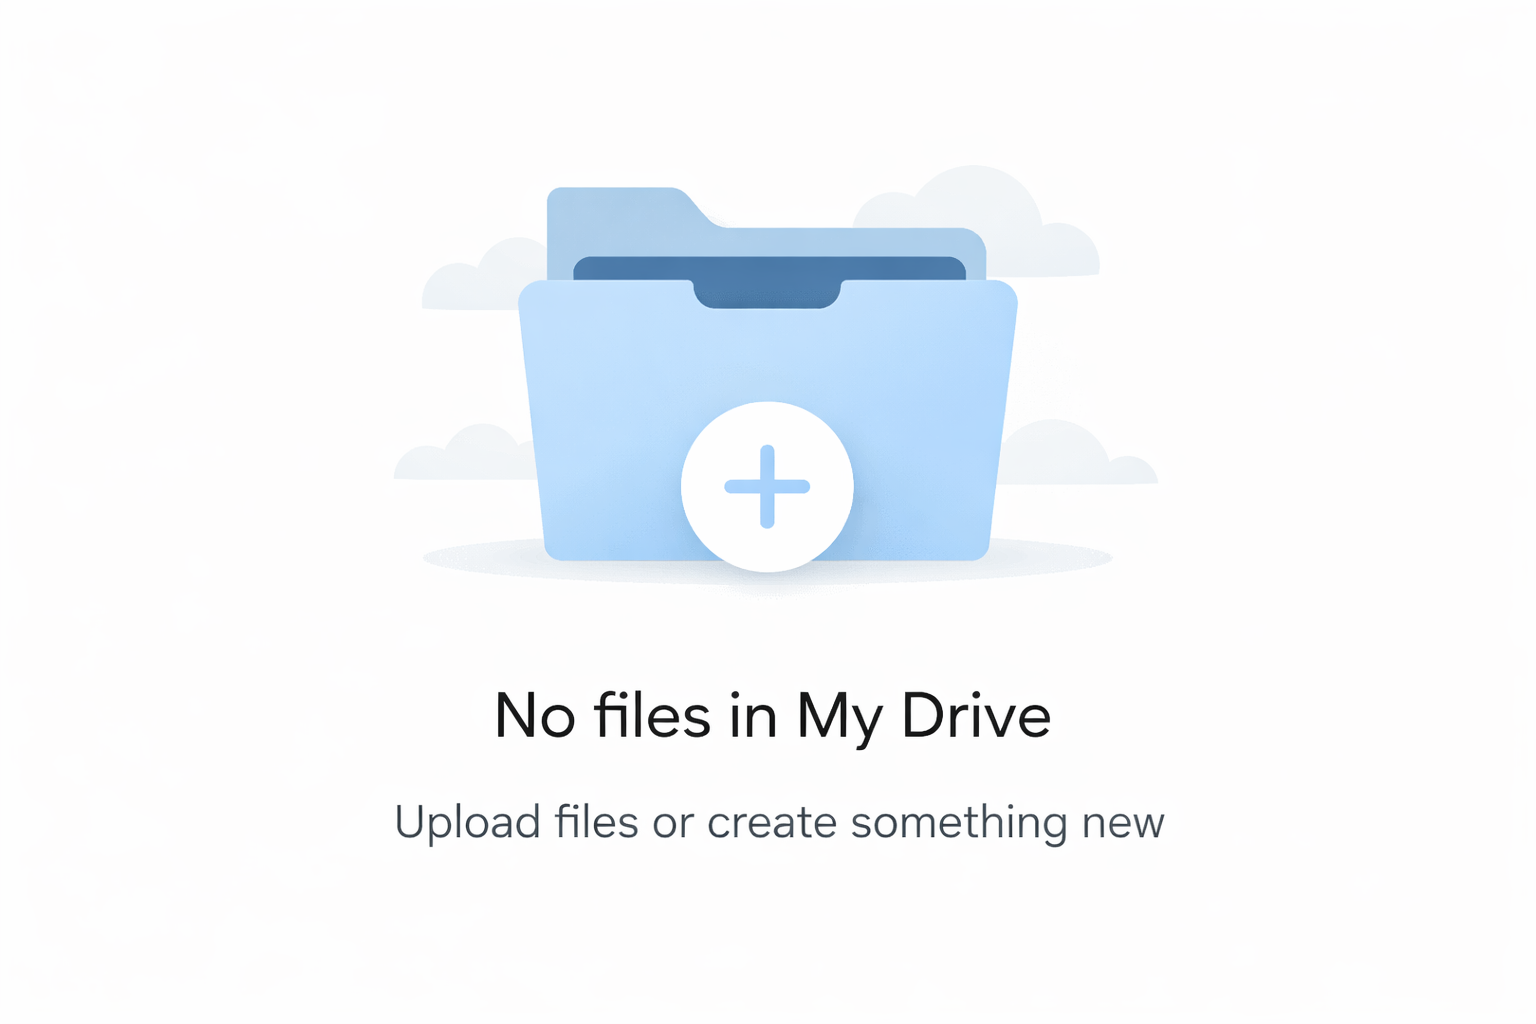
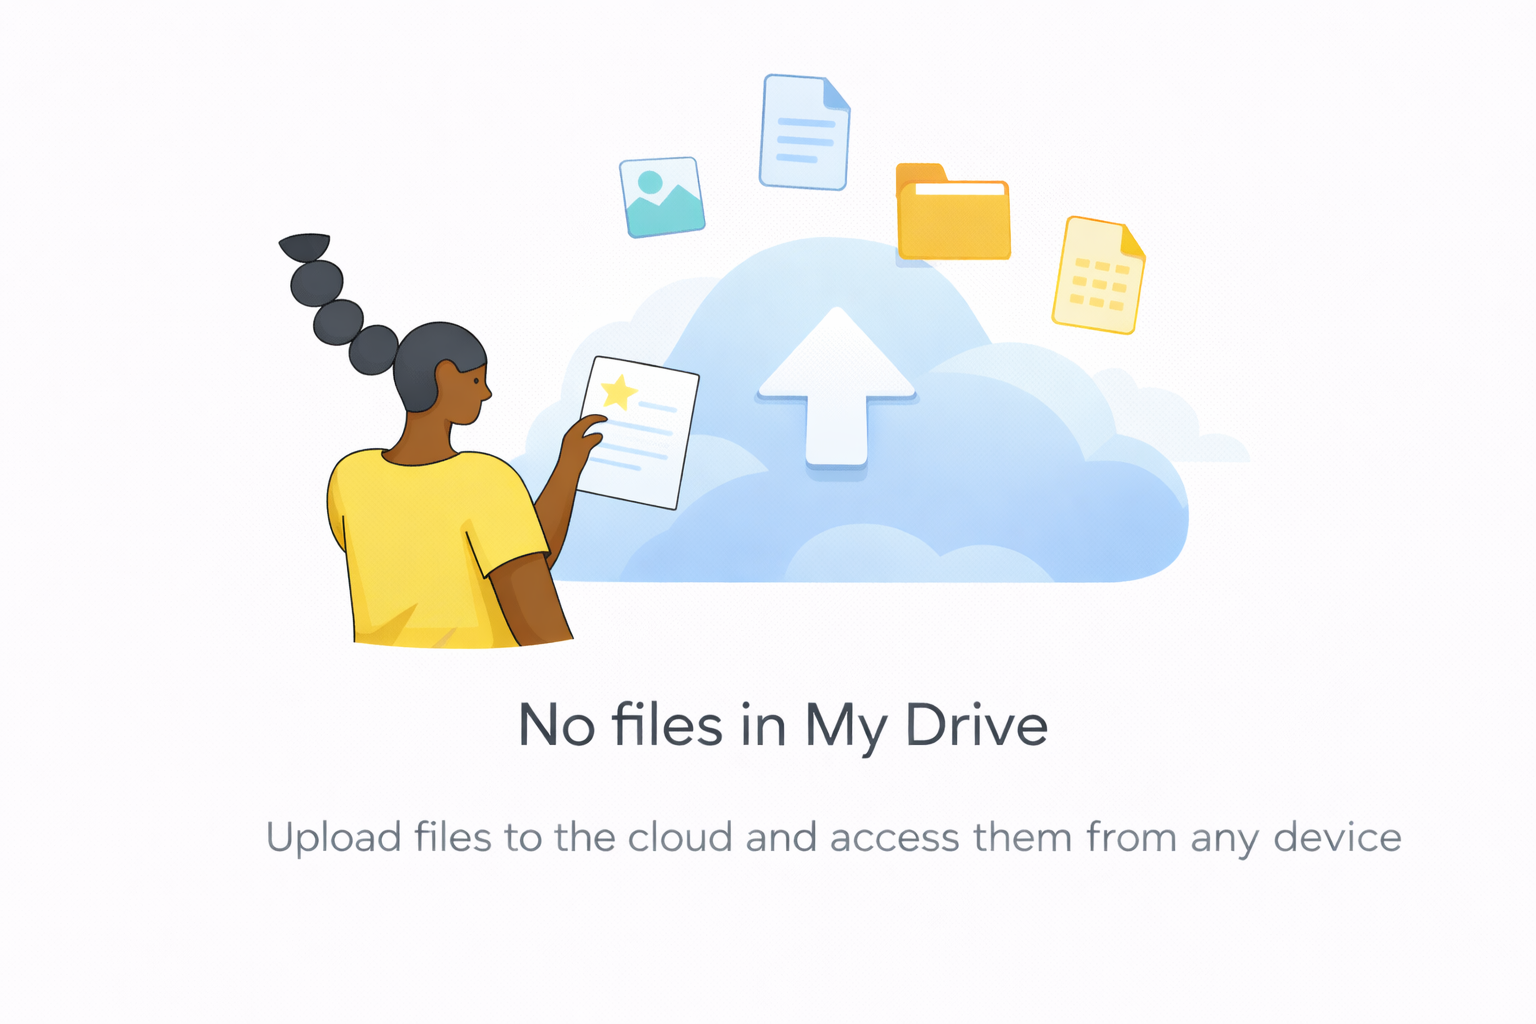
Added info graphics and dockerized application

Changed region(s): [[0.1875, 0.0625, 0.7812, 0.6562], [0.1875, 0.7812, 0.9062, 0.8438], [0.3125, 0.6562, 0.6875, 0.75]]

diff --git a/components/dashboard/FileGrid.tsx b/components/dashboard/FileGrid.tsx
@@ -50,6 +50,8 @@ interface FileGridProps {
   onModifiedFilterChange?: (filter: ModifiedFilterOption | null) => void
   onMove?: (fileId: string, targetFolderId: string | null) => void
   isLoading?: boolean
+  emptyStateImage?: string
+  emptyStateMessage?: string
 }
 
 export function FileGrid({
@@ -73,6 +75,8 @@ export function FileGrid({
   onModifiedFilterChange,
   onMove,
   isLoading = false,
+  emptyStateImage,
+  emptyStateMessage,
 }: FileGridProps) {
   const [draggedFileId, setDraggedFileId] = useState<string | null>(null)
   const [draggedIsFolder, setDraggedIsFolder] = useState<boolean>(false)
@@ -254,10 +258,14 @@ export function FileGrid({
           <div className="h-8 w-8 animate-spin rounded-full border-4 border-slate-200 border-t-blue-600" />
         </div>
       ) : files.length === 0 ? (
-        <div className="flex h-64 items-center justify-center">
-          <p className="text-sm text-slate-500">
-            {typeFilter !== "all" ? `No ${FILE_TYPE_OPTIONS.find((opt) => opt.value === typeFilter)?.label.toLowerCase()} found` : "No files or folders yet"}
-          </p>
+        <div className="flex flex-col items-center justify-center py-16 -mt-40">
+          {emptyStateImage && (
+            <img 
+              src={emptyStateImage} 
+              alt="Empty state" 
+              className="w-[640px] h-[640px] object-contain"
+            />
+          )}
         </div>
       ) : (
         <>

diff --git a/app/dashboard/trash/page.tsx b/app/dashboard/trash/page.tsx
@@ -160,8 +160,12 @@ export default function TrashPage() {
               </div>
             </>
           ) : (
-            <div className="flex h-64 items-center justify-center">
-              <p className="text-sm text-slate-500">Trash is empty</p>
+            <div className="flex flex-col items-center justify-center py-16 -mt-40">
+              <img 
+                src="/trash.png" 
+                alt="Empty trash" 
+                className="w-[640px] h-[640px] object-contain"
+              />
             </div>
           )}
         </div>

diff --git a/components/dashboard/UserProfilePopup.tsx b/components/dashboard/UserProfilePopup.tsx
@@ -1,7 +1,7 @@
 "use client"
 
 import { useState, useEffect } from "react"
-import { User, LogOut, Settings, CreditCard, HelpCircle } from "lucide-react"
+import {LogOut, Settings} from "lucide-react"
 import { signOut } from "next-auth/react"
 
 interface UserProfilePopupProps {
@@ -24,6 +24,7 @@ export function UserProfilePopup({ user, onClose }: UserProfilePopupProps) {
 
   // Reset image error when user changes
   useEffect(() => {
+    // eslint-disable-next-line react-hooks/set-state-in-effect
     setImageError(false)
   }, [user?.image])
 

diff --git a/app/dashboard/page.tsx b/app/dashboard/page.tsx
@@ -434,6 +434,7 @@ export default function DashboardPage() {
               modifiedFilter={modifiedFilter}
               onModifiedFilterChange={handleModifiedFilterChange}
               onMove={handleMove}
+              emptyStateImage="/mydrive.png"
             />
       )}
       {contextMenuPos && selectedFile && (

diff --git a/app/dashboard/shared/page.tsx b/app/dashboard/shared/page.tsx
@@ -223,6 +223,7 @@ export default function SharedWithMePage() {
         modifiedFilter={modifiedFilter}
         onModifiedFilterChange={handleModifiedFilterChange}
         isLoading={isLoadingFiles}
+        emptyStateImage="/sharedwithme.png"
       />
       {contextMenuPos && selectedFile && (
         <ContextMenu

diff --git a/app/dashboard/starred/page.tsx b/app/dashboard/starred/page.tsx
@@ -233,6 +233,7 @@ export default function StarredPage() {
         onModifiedFilterChange={setModifiedFilter}
         onMove={undefined}
         isLoading={isLoadingFiles}
+        emptyStateImage="/starred.png"
       />
       {contextMenuPos && selectedFile && (
         <ContextMenu

diff --git a/next.config.ts b/next.config.ts
@@ -2,6 +2,7 @@ import type { NextConfig } from "next";
 
 const nextConfig: NextConfig = {
   /* config options here */
+  output: 'standalone',
   images: {
     remotePatterns: [new URL('https://lh3.googleusercontent.com/**')],
   },
